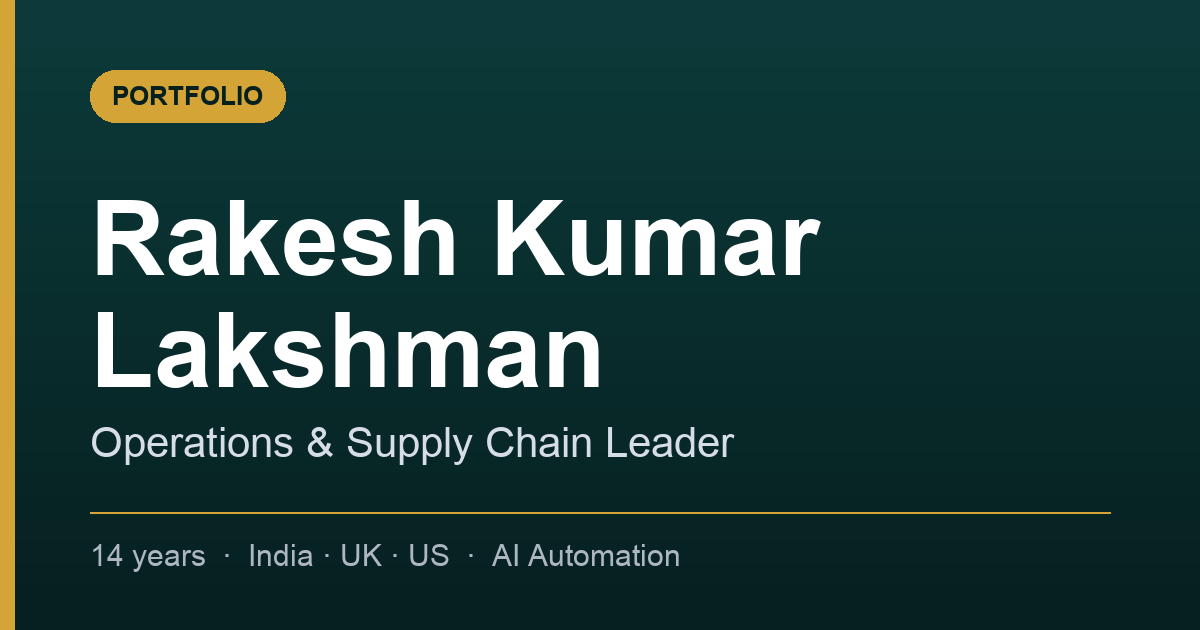
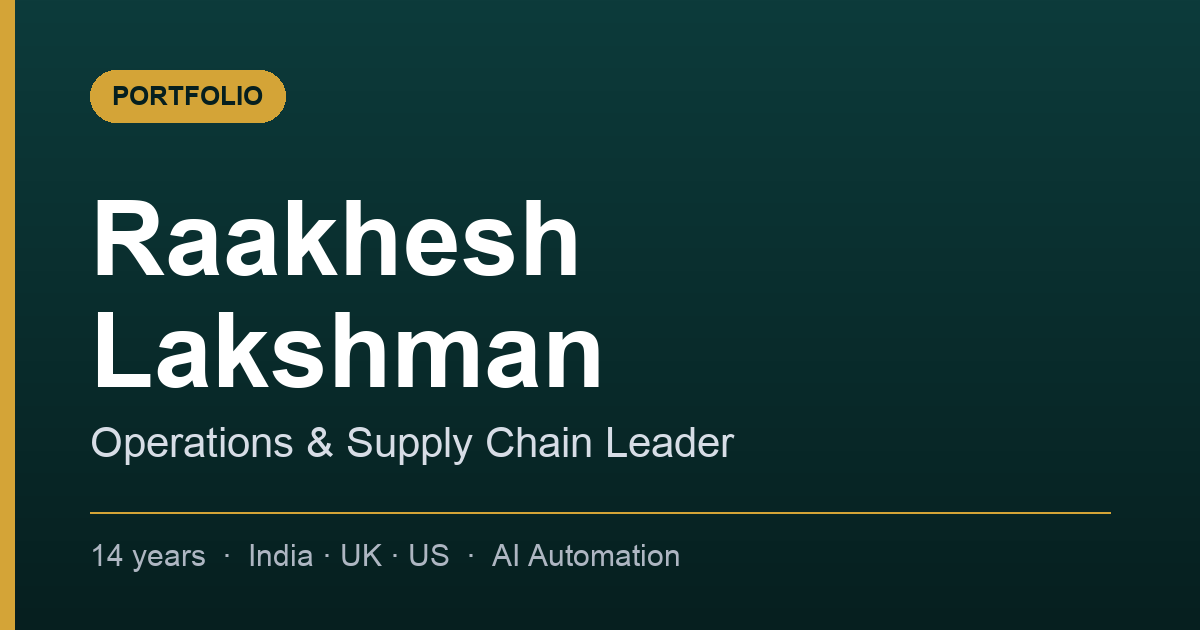
Update name to Raakhesh Lakshman and email to raakheshlakshman@gmail.com

Changed region(s): [[0.185, 0.3016, 0.6783, 0.4524]]

diff --git a/index.html b/index.html
@@ -3,15 +3,15 @@
 <head>
 <meta charset="UTF-8">
 <meta name="viewport" content="width=device-width, initial-scale=1.0">
-<title>Rakesh Kumar Lakshman — Operations & Supply Chain Leader</title>
+<title>Raakhesh Lakshman — Operations & Supply Chain Leader</title>
 <meta name="description" content="Senior operations leader bridging global supply chains, e-commerce systems and AI — across India, the UK and the US. 14 years of operations excellence." />
 <meta property="og:type" content="website" />
-<meta property="og:title" content="Rakesh Kumar Lakshman — Operations & Supply Chain Leader" />
+<meta property="og:title" content="Raakhesh Lakshman — Operations & Supply Chain Leader" />
 <meta property="og:description" content="Senior operations leader bridging global supply chains, e-commerce systems and AI — across India, the UK and the US. 14 years of operations excellence." />
 <meta property="og:url" content="https://sonho87.github.io/rakesh-portfolio/" />
 <meta property="og:image" content="https://sonho87.github.io/rakesh-portfolio/portfolio-og.png" />
 <meta name="twitter:card" content="summary_large_image" />
-<meta name="twitter:title" content="Rakesh Kumar Lakshman — Operations & Supply Chain Leader" />
+<meta name="twitter:title" content="Raakhesh Lakshman — Operations & Supply Chain Leader" />
 <meta name="twitter:description" content="Global supply chains, e-commerce and AI across India, the UK and the US." />
 <meta name="twitter:image" content="https://sonho87.github.io/rakesh-portfolio/portfolio-og.png" />
 <link href="https://fonts.googleapis.com/css2?family=Playfair+Display:wght@400;700;900&family=DM+Sans:wght@300;400;500&display=swap" rel="stylesheet">
@@ -624,10 +624,10 @@
 <section class="hero" style="border-bottom:1px solid var(--line); padding:0;">
   <div class="hero-left">
     <div class="hero-tag">Operations &amp; Supply Chain Portfolio</div>
-    <h1 class="hero-name">Rakesh<span>Lakshman</span></h1>
+    <h1 class="hero-name">Raakhesh<span>Lakshman</span></h1>
     <p class="hero-role">Senior operations leader who bridges global supply chains, e-commerce systems, and emerging AI — across India, the UK, and the US.</p>
     <div class="hero-contact">
-      <a href="mailto:rakesh_lakshman@outlook.com">rakesh_lakshman@outlook.com</a>
+      <a href="mailto:raakheshlakshman@gmail.com">raakheshlakshman@gmail.com</a>
       <a href="tel:+918747033955">+91 87470 33955</a>
       <a href="https://www.linkedin.com/in/rakesh-lakshman-80b70637/" target="_blank">linkedin.com/in/rakesh-lakshman</a>
       <a>Bangalore, India</a>
@@ -991,12 +991,12 @@
   <div class="cta-title">Let's Build Something Together</div>
   <div class="cta-sub">Senior Operations · Supply Chain · FF&amp;E Logistics · Dubai &amp; Global Roles</div>
   <div class="cta-btns">
-    <a href="mailto:rakesh_lakshman@outlook.com?subject=Opportunity%20%E2%80%94%20saw%20your%20portfolio&body=Hi%20Rakesh%2C%0A%0AI%20came%20across%20your%20portfolio%20and%20would%20like%20to%20connect.%0A%0A" class="btn btn-dark">✉ Email</a>
-    <a href="https://wa.me/918747033955?text=Hi%20Rakesh%2C%20I%20saw%20your%20portfolio%20and%20would%20like%20to%20connect." target="_blank" rel="noopener" class="btn btn-outline">WhatsApp</a>
+    <a href="mailto:raakheshlakshman@gmail.com?subject=Opportunity%20%E2%80%94%20saw%20your%20portfolio&body=Hi%20Raakhesh%2C%0A%0AI%20came%20across%20your%20portfolio%20and%20would%20like%20to%20connect.%0A%0A" class="btn btn-dark">✉ Email</a>
+    <a href="https://wa.me/918747033955?text=Hi%20Raakhesh%2C%20I%20saw%20your%20portfolio%20and%20would%20like%20to%20connect." target="_blank" rel="noopener" class="btn btn-outline">WhatsApp</a>
     <a href="https://www.linkedin.com/in/rakesh-lakshman-80b70637/" target="_blank" rel="noopener" class="btn btn-outline">LinkedIn</a>
   </div>
   <div style="margin-top:1.4rem; font-size:0.92rem; color:rgba(13,13,13,0.7);">
-    Prefer direct? <a href="mailto:rakesh_lakshman@outlook.com" style="color:var(--ink); font-weight:600;">rakesh_lakshman@outlook.com</a> &nbsp;·&nbsp; <a href="https://wa.me/918747033955" target="_blank" rel="noopener" style="color:var(--ink); font-weight:600;">+91 87470 33955</a>
+    Prefer direct? <a href="mailto:raakheshlakshman@gmail.com" style="color:var(--ink); font-weight:600;">raakheshlakshman@gmail.com</a> &nbsp;·&nbsp; <a href="https://wa.me/918747033955" target="_blank" rel="noopener" style="color:var(--ink); font-weight:600;">+91 87470 33955</a>
   </div>
 </section>
 

diff --git a/portfolio.html b/portfolio.html
@@ -3,15 +3,15 @@
 <head>
 <meta charset="UTF-8">
 <meta name="viewport" content="width=device-width, initial-scale=1.0">
-<title>Rakesh Kumar Lakshman — Operations & Supply Chain Leader</title>
+<title>Raakhesh Lakshman — Operations & Supply Chain Leader</title>
 <meta name="description" content="Senior operations leader bridging global supply chains, e-commerce systems and AI — across India, the UK and the US. 14 years of operations excellence." />
 <meta property="og:type" content="website" />
-<meta property="og:title" content="Rakesh Kumar Lakshman — Operations & Supply Chain Leader" />
+<meta property="og:title" content="Raakhesh Lakshman — Operations & Supply Chain Leader" />
 <meta property="og:description" content="Senior operations leader bridging global supply chains, e-commerce systems and AI — across India, the UK and the US. 14 years of operations excellence." />
 <meta property="og:url" content="https://sonho87.github.io/rakesh-portfolio/" />
 <meta property="og:image" content="https://sonho87.github.io/rakesh-portfolio/portfolio-og.png" />
 <meta name="twitter:card" content="summary_large_image" />
-<meta name="twitter:title" content="Rakesh Kumar Lakshman — Operations & Supply Chain Leader" />
+<meta name="twitter:title" content="Raakhesh Lakshman — Operations & Supply Chain Leader" />
 <meta name="twitter:description" content="Global supply chains, e-commerce and AI across India, the UK and the US." />
 <meta name="twitter:image" content="https://sonho87.github.io/rakesh-portfolio/portfolio-og.png" />
 <link href="https://fonts.googleapis.com/css2?family=Playfair+Display:wght@400;700;900&family=DM+Sans:wght@300;400;500&display=swap" rel="stylesheet">
@@ -624,10 +624,10 @@
 <section class="hero" style="border-bottom:1px solid var(--line); padding:0;">
   <div class="hero-left">
     <div class="hero-tag">Operations &amp; Supply Chain Portfolio</div>
-    <h1 class="hero-name">Rakesh<span>Lakshman</span></h1>
+    <h1 class="hero-name">Raakhesh<span>Lakshman</span></h1>
     <p class="hero-role">Senior operations leader who bridges global supply chains, e-commerce systems, and emerging AI — across India, the UK, and the US.</p>
     <div class="hero-contact">
-      <a href="mailto:rakesh_lakshman@outlook.com">rakesh_lakshman@outlook.com</a>
+      <a href="mailto:raakheshlakshman@gmail.com">raakheshlakshman@gmail.com</a>
       <a href="tel:+918747033955">+91 87470 33955</a>
       <a href="https://www.linkedin.com/in/rakesh-lakshman-80b70637/" target="_blank">linkedin.com/in/rakesh-lakshman</a>
       <a>Bangalore, India</a>
@@ -991,12 +991,12 @@
   <div class="cta-title">Let's Build Something Together</div>
   <div class="cta-sub">Senior Operations · Supply Chain · FF&amp;E Logistics · Dubai &amp; Global Roles</div>
   <div class="cta-btns">
-    <a href="mailto:rakesh_lakshman@outlook.com?subject=Opportunity%20%E2%80%94%20saw%20your%20portfolio&body=Hi%20Rakesh%2C%0A%0AI%20came%20across%20your%20portfolio%20and%20would%20like%20to%20connect.%0A%0A" class="btn btn-dark">✉ Email</a>
-    <a href="https://wa.me/918747033955?text=Hi%20Rakesh%2C%20I%20saw%20your%20portfolio%20and%20would%20like%20to%20connect." target="_blank" rel="noopener" class="btn btn-outline">WhatsApp</a>
+    <a href="mailto:raakheshlakshman@gmail.com?subject=Opportunity%20%E2%80%94%20saw%20your%20portfolio&body=Hi%20Raakhesh%2C%0A%0AI%20came%20across%20your%20portfolio%20and%20would%20like%20to%20connect.%0A%0A" class="btn btn-dark">✉ Email</a>
+    <a href="https://wa.me/918747033955?text=Hi%20Raakhesh%2C%20I%20saw%20your%20portfolio%20and%20would%20like%20to%20connect." target="_blank" rel="noopener" class="btn btn-outline">WhatsApp</a>
     <a href="https://www.linkedin.com/in/rakesh-lakshman-80b70637/" target="_blank" rel="noopener" class="btn btn-outline">LinkedIn</a>
   </div>
   <div style="margin-top:1.4rem; font-size:0.92rem; color:rgba(13,13,13,0.7);">
-    Prefer direct? <a href="mailto:rakesh_lakshman@outlook.com" style="color:var(--ink); font-weight:600;">rakesh_lakshman@outlook.com</a> &nbsp;·&nbsp; <a href="https://wa.me/918747033955" target="_blank" rel="noopener" style="color:var(--ink); font-weight:600;">+91 87470 33955</a>
+    Prefer direct? <a href="mailto:raakheshlakshman@gmail.com" style="color:var(--ink); font-weight:600;">raakheshlakshman@gmail.com</a> &nbsp;·&nbsp; <a href="https://wa.me/918747033955" target="_blank" rel="noopener" style="color:var(--ink); font-weight:600;">+91 87470 33955</a>
   </div>
 </section>
 
